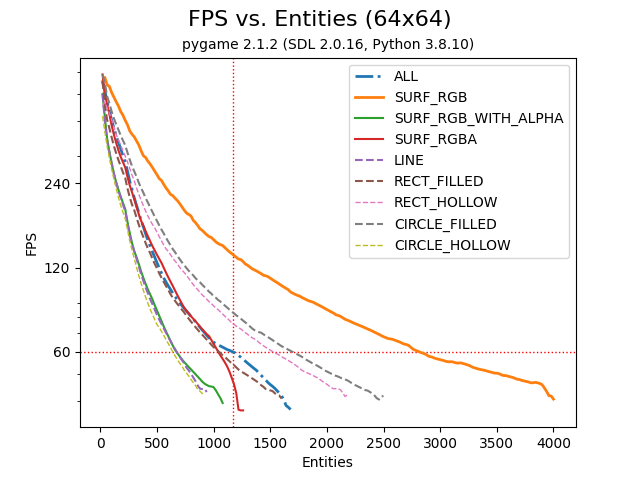
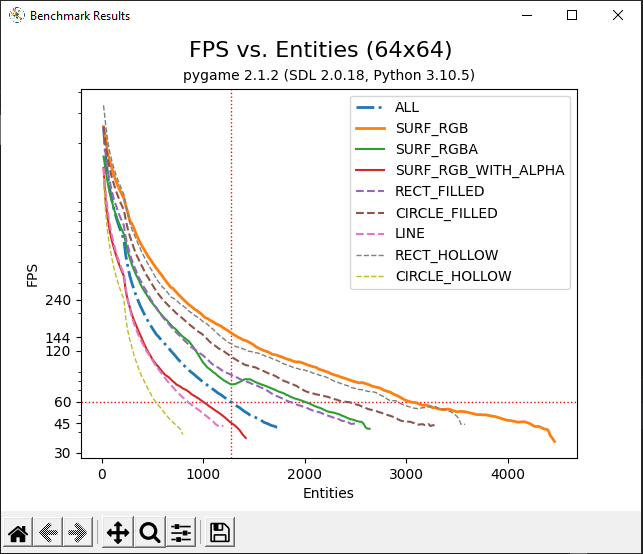
added cmd line args and final tweaks to benchmark.py

diff --git a/benchmark.py b/benchmark.py
@@ -1,14 +1,18 @@
-import pygame
-import matplotlib.pyplot as plt
+import os
+import sys
 
+import argparse
 import math
 import random
 import enum
-import sys
+
+os.environ['PYGAME_HIDE_SUPPORT_PROMPT'] = "1"
+import pygame
+import matplotlib.pyplot as plt
 
 
 # Pygame Benchmarking Program
-# by Ghast (@Ghast_NEOH)
+# by Ghast ~ github.com/davidpendergast
 
 
 SCREEN_SIZE = 640, 480
@@ -19,10 +23,18 @@ SPAWN_RATE = 200   # entities per sec, increasing this will make the tests run f
 TICK_RATE = 0.10   # frequency of entity additions and fps measurements
 STOP_AT_FPS = 45   # test cases stop when this FPS is reached
 
-CAPTION_REFRESH_PER_SEC = 3     # per second
-LOW_FPS_GRACE_PERIOD = 0.5      # seconds
-PAUSE_BETWEEN_TESTS_TIME = 1    # seconds
-GRAPH_SMOOTHING_RADIUS = 1      # seconds
+INCLUDE_SURFACES = True
+INCLUDE_FILLED_SHAPES = True
+INCLUDE_HOLLOW_SHAPES = True
+INCLUDE_LINES = True
+
+RAND_SEED = 27182818
+
+CAPTION_REFRESH_PER_SEC = 3     # per second, how frequently to update the window title
+LOW_FPS_GRACE_PERIOD = 0.5      # seconds, how long the FPS can stay under STOP_AT_FPS before ending the test case
+PAUSE_BETWEEN_TESTS_TIME = 1    # seconds, how long to pause between tests
+GRAPH_SMOOTHING_RADIUS = 1      # seconds, how much to smooth the graph (uses running average)
+LOG_AXIS = True                 # whether to use log-scaling for the graph's y-axis
 
 PX_PER_ENT = ENT_SIZE ** 2
 
@@ -35,17 +47,25 @@ class EntityType(enum.IntEnum):
     LINE = 3                    # A line drawn via pygame.draw.line
     RECT_FILLED = 4             # A rect drawn via pygame.draw.rect (with width = 0)
     RECT_HOLLOW = 5             # A rect drawn via pygame.draw.rect (with width > 0)
-    CIRCLE_FILLED = 6           # A circle drawn via pygame.draw.cricle (with width = 0)
-    CIRCLE_HOLLOW = 7           # A circle drawn via pygame.draw.cricle (with width > 0)
+    CIRCLE_FILLED = 6           # A circle drawn via pygame.draw.circle (with width = 0)
+    CIRCLE_HOLLOW = 7           # A circle drawn via pygame.draw.circle (with width > 0)
 
 
 def _calc_avg_lengths(w, h, n=10000):
+    """Finds the average length of a line between two random points in a (w x h) area using random sampling.
+        returns: Average total length, x-length, and y-length
+    """
     total_dx = 0
     total_dy = 0
     total_dist = 0
+
+    # Fixed seed because this can affect the test quite a lot. For example, if hollow circles
+    # use a thickness of 6 pixels instead of 5 that's a 20% increase.
+    rand = random.Random(x=12345)
+
     for _ in range(n):
-        p1 = random.randint(0, w - 1), random.randint(0, h - 1)
-        p2 = random.randint(0, w - 1), random.randint(0, h - 1)
+        p1 = rand.randint(0, w - 1), rand.randint(0, h - 1)
+        p2 = rand.randint(0, w - 1), rand.randint(0, h - 1)
         dx = p1[0] - p2[0]
         dy = p1[1] - p2[1]
         total_dx += abs(dx)
@@ -54,42 +74,44 @@ def _calc_avg_lengths(w, h, n=10000):
     return total_dist / n, total_dx / n, total_dy / n
 
 
-# For the current screen size, these are the average distances between two random points.
 AVG_LENGTH, AVG_WIDTH, AVG_HEIGHT = _calc_avg_lengths(*SCREEN_SIZE)
 
-# Want to define the geometric entities such that on average they'll have an area of
-# about PX_PER_ENT pixels. Note that these are approximate (particularly the circle one,
-# which assumes the relationship between radius and pixels changed is linear (it's actually quadratic)).
-LINE_THICKNESS = max(1, round(PX_PER_ENT / AVG_LENGTH))
-HOLLOW_RECT_THICKNESS = max(1, round(PX_PER_ENT / (2 * (AVG_WIDTH + AVG_HEIGHT))))
-HOLLOW_CIRCLE_RADIUS_MULT = 0.25
-HOLLOW_CIRCLE_THICKNESS = max(1, round((AVG_LENGTH * HOLLOW_CIRCLE_RADIUS_MULT)
-                                       - math.sqrt(max(0, (AVG_LENGTH * HOLLOW_CIRCLE_RADIUS_MULT) ** 2
-                                                       - PX_PER_ENT / math.pi))))
+# Want to define the geometric entities such that on average they'll have an area of about PX_PER_ENT pixels.
+# Note that these are approximate (particularly the circle one, which assumes the relationship between radius
+# and pixels changed is linear (it's actually quadratic)).
+LINE_WIDTH = max(1, round(PX_PER_ENT / AVG_LENGTH))
+HOLLOW_RECT_WIDTH = max(1, round(PX_PER_ENT / (2 * (AVG_WIDTH + AVG_HEIGHT))))
+HOLLOW_CIRCLE_RADIUS_MULT = 0.25  # radius = mult * dist between two random points
+HOLLOW_CIRCLE_WIDTH = max(1, round((AVG_LENGTH * HOLLOW_CIRCLE_RADIUS_MULT)
+                                   - math.sqrt(max(0, (AVG_LENGTH * HOLLOW_CIRCLE_RADIUS_MULT) ** 2
+                                                   - PX_PER_ENT / math.pi))))
 FILLED_CIRCLE_RADIUS = max(1, round(math.sqrt(PX_PER_ENT / math.pi)))
 
 
 def _print_info():
     print(f"\nStarting new simulation:\n"
-          f"  Screen size =   {SCREEN_SIZE}\n"
-          f"  Entity size =   {ENT_SIZE}x{ENT_SIZE}\n"
-          f"  Minimum FPS =   {STOP_AT_FPS}")
+          f"  Screen size =   {SCREEN_SIZE} px\n"
+          f"  Entity size =   {ENT_SIZE} x {ENT_SIZE} px\n"
+          f"  Minimum FPS =   {STOP_AT_FPS} fps\n"
+          f"  Spawn Rate =    {SPAWN_RATE} ents/sec\n"
+          f"  Tick Rate =     {TICK_RATE} sec")
+
     print(f"\nAverage number of pixels changed per render:")
     print(f"  Filled Rect:    {PX_PER_ENT:.2f} = {ENT_SIZE}**2")
     print(f"  Filled Circle:  {math.pi * FILLED_CIRCLE_RADIUS**2:.2f} = pi * {FILLED_CIRCLE_RADIUS} ** 2")
-    print(f"  Line:           {AVG_LENGTH * LINE_THICKNESS:.2f} = {AVG_LENGTH:.2f} * {LINE_THICKNESS:.2f}")
-    print(f"  Hollow Rect:    {2 * (AVG_WIDTH + AVG_HEIGHT) * HOLLOW_RECT_THICKNESS:.2f}"
-          f" = 2 * ({AVG_WIDTH:.2f} + {AVG_HEIGHT:.2f}) * {HOLLOW_RECT_THICKNESS:.2f}")
+    print(f"  Line:           {AVG_LENGTH * LINE_WIDTH:.2f} = {AVG_LENGTH:.2f} * {LINE_WIDTH:.2f}")
+    print(f"  Hollow Rect:    {2 * (AVG_WIDTH + AVG_HEIGHT) * HOLLOW_RECT_WIDTH:.2f}"
+          f" = 2 * ({AVG_WIDTH:.2f} + {AVG_HEIGHT:.2f}) * {HOLLOW_RECT_WIDTH:.2f}")
     avg_hollow_circle_area = math.pi * ((AVG_LENGTH * HOLLOW_CIRCLE_RADIUS_MULT)**2
-                                        - (AVG_LENGTH*HOLLOW_CIRCLE_RADIUS_MULT - HOLLOW_CIRCLE_THICKNESS)**2)
+                                        - (AVG_LENGTH*HOLLOW_CIRCLE_RADIUS_MULT - HOLLOW_CIRCLE_WIDTH)**2)
     print(f"  Hollow Circle:  {avg_hollow_circle_area:.2f}"
           f" = pi * (({AVG_LENGTH:.2f})**2 - ({AVG_LENGTH:.2f}"
-          f" - {HOLLOW_CIRCLE_THICKNESS:.2f})**2) (approx.)")
+          f" - {HOLLOW_CIRCLE_WIDTH:.2f})**2) (approx.)")
 
 
 class EntityFactory:
 
-    def __init__(self, seed=27182818):
+    def __init__(self, seed=RAND_SEED):
         self.rand = random.Random(x=seed)
 
     def get_next(self):
@@ -101,13 +123,13 @@ class EntityFactory:
 
 class Renderer:
 
-    def __init__(self, screen, n_pts=512, ent_types=tuple(e for e in EntityType), seed=27182818):
+    def __init__(self, screen, n_pts=503, ent_types=tuple(e for e in EntityType), seed=RAND_SEED):
         self.screen = screen
         self.entities = []
         self.ent_types = ent_types
         self.random = random.Random(x=seed)
 
-        # Instantiate the invisible points that "float" around the screen.
+        # Instantiate the invisible points that float around the screen.
         # These points determine the locations of entities. Note that they're not
         # updated one-by-one each frame -- instead, their positions are derived
         # on-the-fly using their initial position, velocity, and the time.
@@ -120,9 +142,9 @@ class Renderer:
             v.scale_to_length(random.randint(30, 50))
 
         self.t = 0  # current time
-        self.colors = ["red", "green", "blue", "yellow", "cyan", "magenta"]
+        self.colors = ["red", "green", "blue", "yellow", "cyan", "magenta", "orange"]
 
-        # Pre-compute the surfaces that entities may need.
+        # Precompute the surfaces that entities may need.
         self.rgb_surfs = []
         self.rgba_surfs = []
         self.rgb_surfs_with_alpha = []
@@ -151,9 +173,9 @@ class Renderer:
     def update(self, dt):
         self.t += dt
 
-    def get_pt(self, x):
-        base_pt = self.pts[x % len(self.pts)]
-        vel = self.vels[x % len(self.vels)]
+    def get_point(self, n1, n2):
+        base_pt = self.pts[n1 % len(self.pts)] + self.pts[n2 % len(self.pts)]
+        vel = self.vels[n2 % len(self.vels)] + self.vels[n1 % len(self.vels)]
         pt = base_pt + vel * self.t
         x = int(pt.x) % self.screen.get_width()
         y = int(pt.y) % self.screen.get_height()
@@ -162,46 +184,46 @@ class Renderer:
     def render(self, bg_color=(0, 0, 0)):
         self.screen.fill(bg_color)
         for ent in self.entities:
-            # extract entity info from tuple
             ent_type = self.ent_types[ent[0] % len(self.ent_types)]
-            p1 = self.get_pt(ent[1])
-            p2 = self.get_pt(ent[2])
+            p1 = self.get_point(ent[0], ent[1])
+            p2 = self.get_point(ent[0], ent[2])
             color_idx = ent[3]
 
-            self.render_methods[ent_type](p1, p2, color_idx)  # hack activated
+            self.render_methods[ent_type](p1, p2, color_idx)  # do actual rendering
 
     def render_SURF_RGB(self, p1, p2, color_idx):
         surf = self.rgb_surfs[color_idx % len(self.rgb_surfs)]
-        self.screen.blit(surf, p1)
+        self.screen.blit(surf, (p1[0] - ENT_SIZE // 2, p1[1] - ENT_SIZE // 2))
 
     def render_SURF_RGBA(self, p1, p2, color_idx):
         surf = self.rgba_surfs[color_idx % len(self.rgba_surfs)]
-        self.screen.blit(surf, p1)
+        self.screen.blit(surf, (p1[0] - ENT_SIZE // 2, p1[1] - ENT_SIZE // 2))
 
     def render_SURF_RGB_WITH_ALPHA(self, p1, p2, color_idx):
         surf = self.rgb_surfs_with_alpha[color_idx % len(self.rgb_surfs_with_alpha)]
-        self.screen.blit(surf, p1)
+        self.screen.blit(surf, (p1[0] - ENT_SIZE // 2, p1[1] - ENT_SIZE // 2))
 
     def render_LINE(self, p1, p2, color_idx):
         c = self.colors[color_idx % len(self.colors)]
-        pygame.draw.line(screen, c, p1, p2, width=LINE_THICKNESS)
+        pygame.draw.line(self.screen, c, p1, p2, width=LINE_WIDTH)
 
     def render_RECT_HOLLOW(self, p1, p2, color_idx):
         c = self.colors[color_idx % len(self.colors)]
-        pygame.draw.rect(screen, c, (p1[0], p1[1], p2[0] - p1[0], p2[1] - p1[1]), width=HOLLOW_RECT_THICKNESS)
+        pygame.draw.rect(self.screen, c, (p1[0], p1[1], p2[0] - p1[0], p2[1] - p1[1]),
+                         width=HOLLOW_RECT_WIDTH)
 
     def render_RECT_FILLED(self, p1, p2, color_idx):
         c = self.colors[color_idx % len(self.colors)]
-        pygame.draw.rect(screen, c, (p1[0], p1[1], ENT_SIZE, ENT_SIZE))
+        pygame.draw.rect(self.screen, c, (p1[0]  - ENT_SIZE // 2, p1[1] - ENT_SIZE // 2, ENT_SIZE, ENT_SIZE))
 
     def render_CIRCLE_HOLLOW(self, p1, p2, color_idx):
         c = self.colors[color_idx % len(self.colors)]
         r = (abs(p2[0] - p1[0]) + abs(p2[1] - p1[0])) * HOLLOW_CIRCLE_RADIUS_MULT
-        pygame.draw.circle(screen, c, p1, r, width=HOLLOW_CIRCLE_THICKNESS)
+        pygame.draw.circle(self.screen, c, p1, r, width=HOLLOW_CIRCLE_WIDTH)
 
     def render_CIRCLE_FILLED(self, p1, p2, color_idx):
         c = self.colors[color_idx % len(self.colors)]
-        pygame.draw.circle(screen, c, p1, FILLED_CIRCLE_RADIUS)
+        pygame.draw.circle(self.screen, c, p1, FILLED_CIRCLE_RADIUS)
 
 
 def start_plot(title, subtitle=None):
@@ -212,15 +234,10 @@ def start_plot(title, subtitle=None):
         plt.title(title)
     plt.xlabel('Entities')
     plt.ylabel('FPS')
-    plt.yscale('log')
+    if LOG_AXIS:
+        plt.yscale('log')
     yticks = [15, 30, 45, 60, 120, 144, 240]
     plt.yticks(yticks, [str(yt) for yt in yticks])
-
-
-def finish_plot():
-    plt.legend()
-    plt.get_current_fig_manager().set_window_title('Benchmark Results')
-    plt.show()
 
 
 def get_x_and_y(data, smooth_radius=0):
@@ -263,6 +280,12 @@ def add_to_plot(data, label, show_t60=False, smooth_radius=0):
     plt.plot(x, y, label=label, linestyle=linestyle, linewidth=linewidth)
 
 
+def finish_plot():
+    plt.legend()
+    plt.get_current_fig_manager().set_window_title('Benchmark Results')
+    plt.show()
+
+
 def solve_for_t(x, y, target_y, or_else=None):
     res = None
     for i in range(0, len(x) - 1):
@@ -297,7 +320,7 @@ def smooth_data(x, y, box_radius):
 
 class TestCase:
 
-    def __init__(self, name, caption_title, screen, ent_types=tuple(e for e in EntityType), seed=271828):
+    def __init__(self, name, caption_title, screen, ent_types=tuple(e for e in EntityType), seed=RAND_SEED):
         self.name = name
         self.caption_title = caption_title
         self.screen = screen
@@ -355,21 +378,42 @@ class TestCase:
 def _print_result(case_num, test, res, fps_to_display=(144, 120, 60, STOP_AT_FPS)):
     print(f"\n{case_num}. {test.name} Results:")
     x, y = get_x_and_y(res, smooth_radius=GRAPH_SMOOTHING_RADIUS * SPAWN_RATE)
-    for fps in reversed(sorted(set(fps_to_display))):
-        t = solve_for_t(x, y, fps, or_else=float('NaN'))
-        print(f"  {fps:>3} FPS: {int(t):>4} entities")
+    for fps in reversed(sorted(f for f in set(fps_to_display) if f >= STOP_AT_FPS)):
+        t = solve_for_t(x, y, fps, or_else=0)
+        print(f"  {fps:>3} FPS: {round(t):>4} entities")
 
 
-if __name__ == "__main__":
+def _build_test_cases(screen):
+    ents_to_test = []
+    if INCLUDE_SURFACES:
+        ents_to_test.extend([EntityType.SURF_RGB, EntityType.SURF_RGBA, EntityType.SURF_RGB_WITH_ALPHA])
+    if INCLUDE_FILLED_SHAPES:
+        ents_to_test.extend([EntityType.RECT_FILLED, EntityType.CIRCLE_FILLED])
+    if INCLUDE_LINES:
+        ents_to_test.append(EntityType.LINE)
+    if INCLUDE_HOLLOW_SHAPES:
+        ents_to_test.extend([EntityType.RECT_HOLLOW, EntityType.CIRCLE_HOLLOW])
+
+    test_cases = []
+    if len(ents_to_test) == 0:
+        raise ValueError("Nothing to test, all cases are disabled.")
+    elif len(ents_to_test) == 1:
+        e = ents_to_test[0]
+        test_cases.append(TestCase(e.name, f"{e.name} (#, CASE=1/1)", screen, (e,)))
+    else:
+        n_cases = 1 + len(ents_to_test)
+        test_cases = [TestCase("ALL", f"ALL (#, CASE=1/{n_cases})", screen, ents_to_test)]
+        for e in ents_to_test:
+            test_cases.append(TestCase(e.name, f"{e.name} (#, CASE={2 + int(e)}/{n_cases})", screen, (e,)))
+    return test_cases
+
+
+def _run():
     pygame.init()
     screen = pygame.display.set_mode(SCREEN_SIZE)
 
     _print_info()
-
-    n_cases = 1 + len(EntityType)
-    test_cases = [TestCase("ALL", f"ALL (#, CASE=1/{n_cases})",  screen)]
-    for e in EntityType:
-        test_cases.append(TestCase(e.name, f"{e.name} (#, CASE={2 + int(e)}/{n_cases})", screen, (e,)))
+    test_cases = _build_test_cases(screen)
 
     all_results = {}
     try:
@@ -379,14 +423,15 @@ if __name__ == "__main__":
             _print_result(test_cases.index(test) + 1, test, res)
     except ValueError as err:
         if str(err) == "Quit":
-            print("\nWARN: Benchmark was cancelled before completion")
-            pass  # show partial results even if you quit
+            msg = "no results to show" if len(all_results) == 0 else "showing partial results"
+            print(f"\nBenchmark was cancelled before completion ({msg})")
+            pass  # show partial results (if possible) when you quit
         else:
             raise err
 
     pygame.display.quit()
 
-    # display the plots
+    # display the plot
     if len(all_results) > 0:
         print("\nDisplaying plot...")
         pg_ver = pygame.version.ver
@@ -398,3 +443,42 @@ if __name__ == "__main__":
             add_to_plot(all_results[test_name], test_name, show_t60=(test_name == "ALL"),
                         smooth_radius=GRAPH_SMOOTHING_RADIUS * SPAWN_RATE)
         finish_plot()
+
+
+if __name__ == "__main__":
+    parser = argparse.ArgumentParser(description='A benchmarking program for pygame rendering.')
+    parser.add_argument('--size', type=int, metavar="int", default=SCREEN_SIZE, nargs=2, help=f'the window size (default {SCREEN_SIZE[0]} {SCREEN_SIZE[1]})')
+    parser.add_argument('--entity-size', type=int, metavar="int", default=ENT_SIZE, help=f'the size of entities in both dimensions (default {ENT_SIZE} px)')
+
+    parser.add_argument('--skip-surfaces', dest='surfaces', action='store_false', default=True, help=f'if used, will skip tests for RGB, RGBA, and RGB (with alpha) surfaces')
+    parser.add_argument('--skip-filled', dest='filled', action='store_false', default=True, help=f'if used, will skip tests for pygame.draw.rect and circle with width = 0')
+    parser.add_argument('--skip-hollow', dest='hollow', action='store_false', default=True, help=f'if used, will skip tests for pygame.draw.rect and circle with width > 0')
+    parser.add_argument('--skip-lines', dest='lines', action='store_false', default=True, help=f'if used, will skip tests for pygame.draw.line')
+
+    parser.add_argument('--spawn-rate', type=int, metavar="int", default=SPAWN_RATE, help=f'number of entities to spawn per second (default {SPAWN_RATE}, smaller = slower and more accurate)')
+    parser.add_argument('--tick-rate', type=float, metavar="float", default=TICK_RATE, help=f'how frequently to sample the FPS and add new entities (in seconds, default {TICK_RATE})')
+    parser.add_argument('--fps-thresh', type=int, metavar="int", default=STOP_AT_FPS, help=f'the FPS at which a test case should stop (default {STOP_AT_FPS})')
+
+    parser.add_argument('--smooth', type=float, metavar="float", default=GRAPH_SMOOTHING_RADIUS, help=f'how much to smooth the graph, in seconds (default {GRAPH_SMOOTHING_RADIUS}, or use 0 for none)')
+    parser.add_argument('--no-log-axis', dest='log_axis', action='store_false', default=LOG_AXIS, help=f'if used, will disable log-scaling on the graph\'s y-axis')
+
+    parser.add_argument('--seed', type=int, metavar="int", default=RAND_SEED, help=f'random seed (default={RAND_SEED}, use 0 to generate one)')
+
+    args = parser.parse_args()
+
+    SCREEN_SIZE = args.size
+    ENT_SIZE = args.entity_size
+
+    INCLUDE_SURFACES = args.surfaces
+    INCLUDE_FILLED_SHAPES = args.filled
+    INCLUDE_HOLLOW_SHAPES = args.hollow
+    INCLUDE_LINES = args.lines
+
+    SPAWN_RATE = args.spawn_rate
+    TICK_RATE = args.tick_rate
+    STOP_AT_FPS = args.fps_thresh
+    GRAPH_SMOOTHING_RADIUS = args.smooth
+    LOG_AXIS = args.log_axis
+    RAND_SEED = args.seed if args.seed > 0 else None
+
+    _run()
